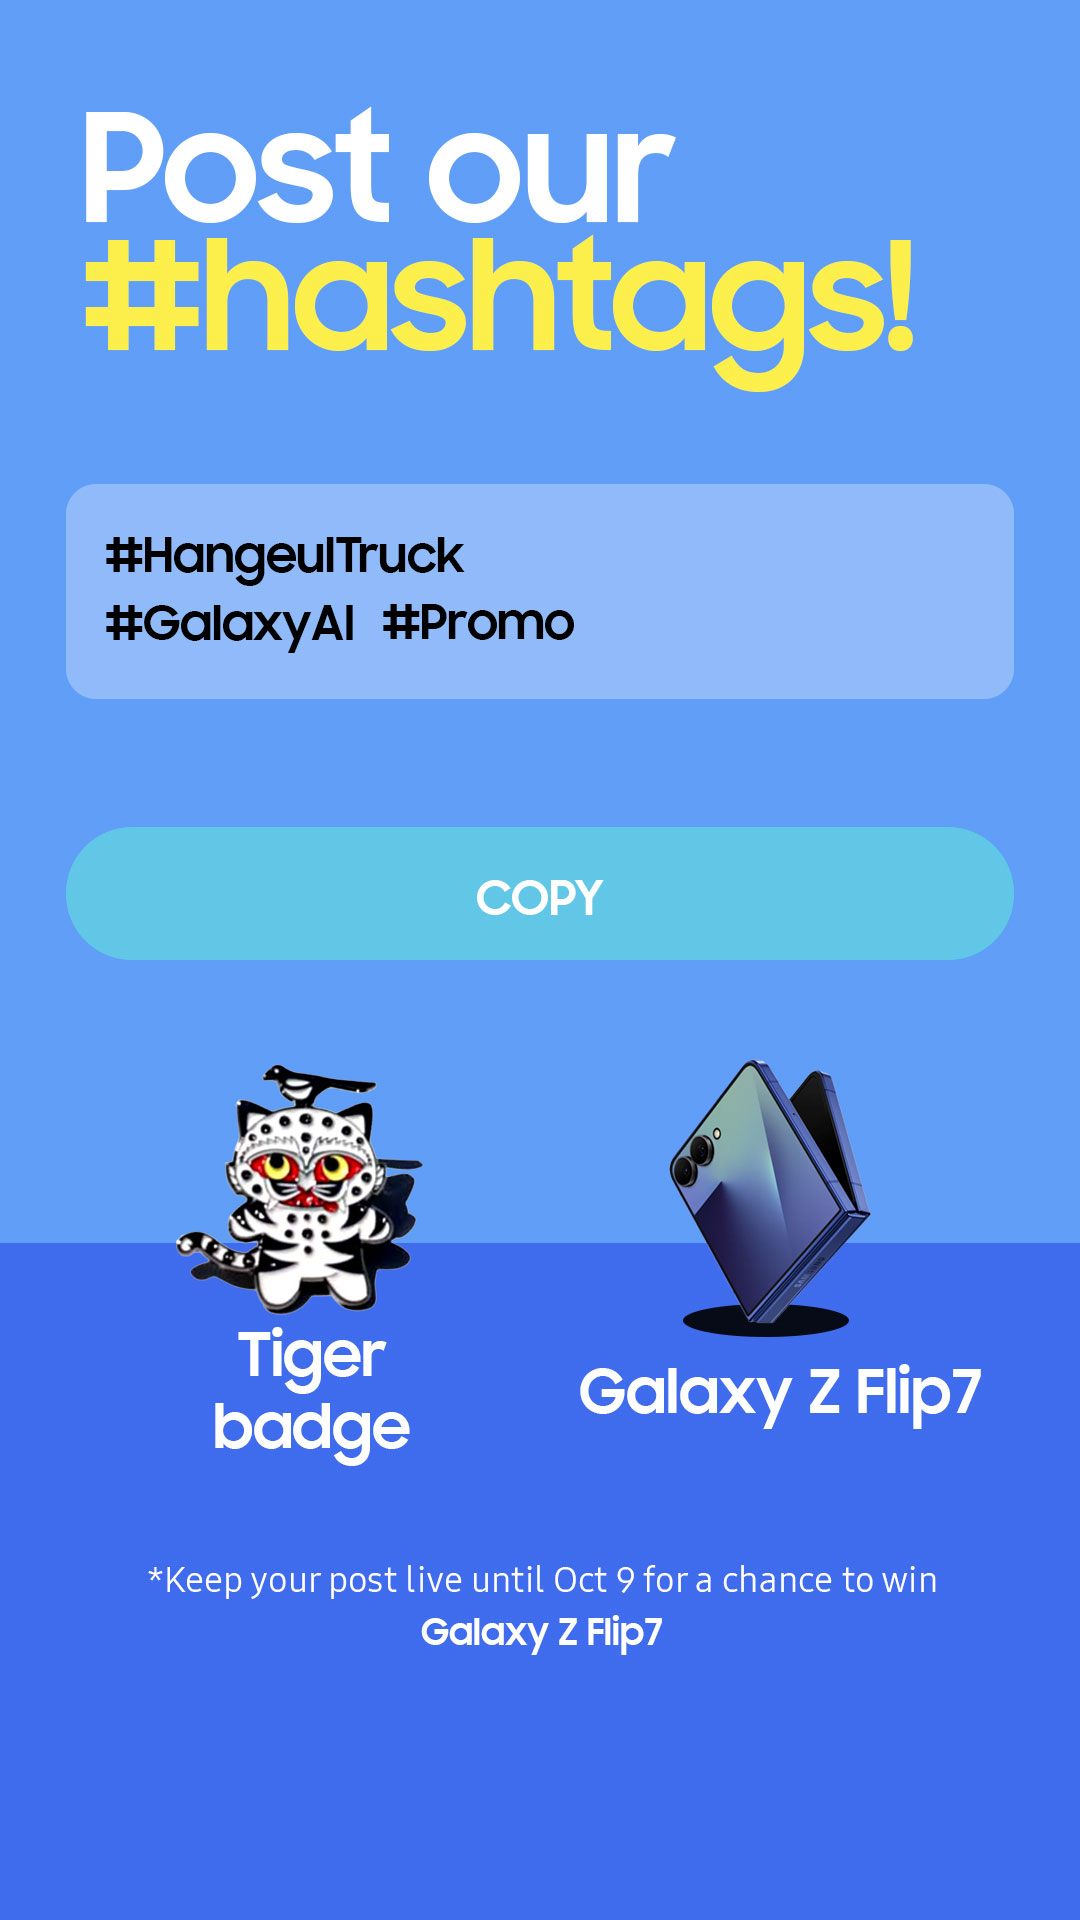
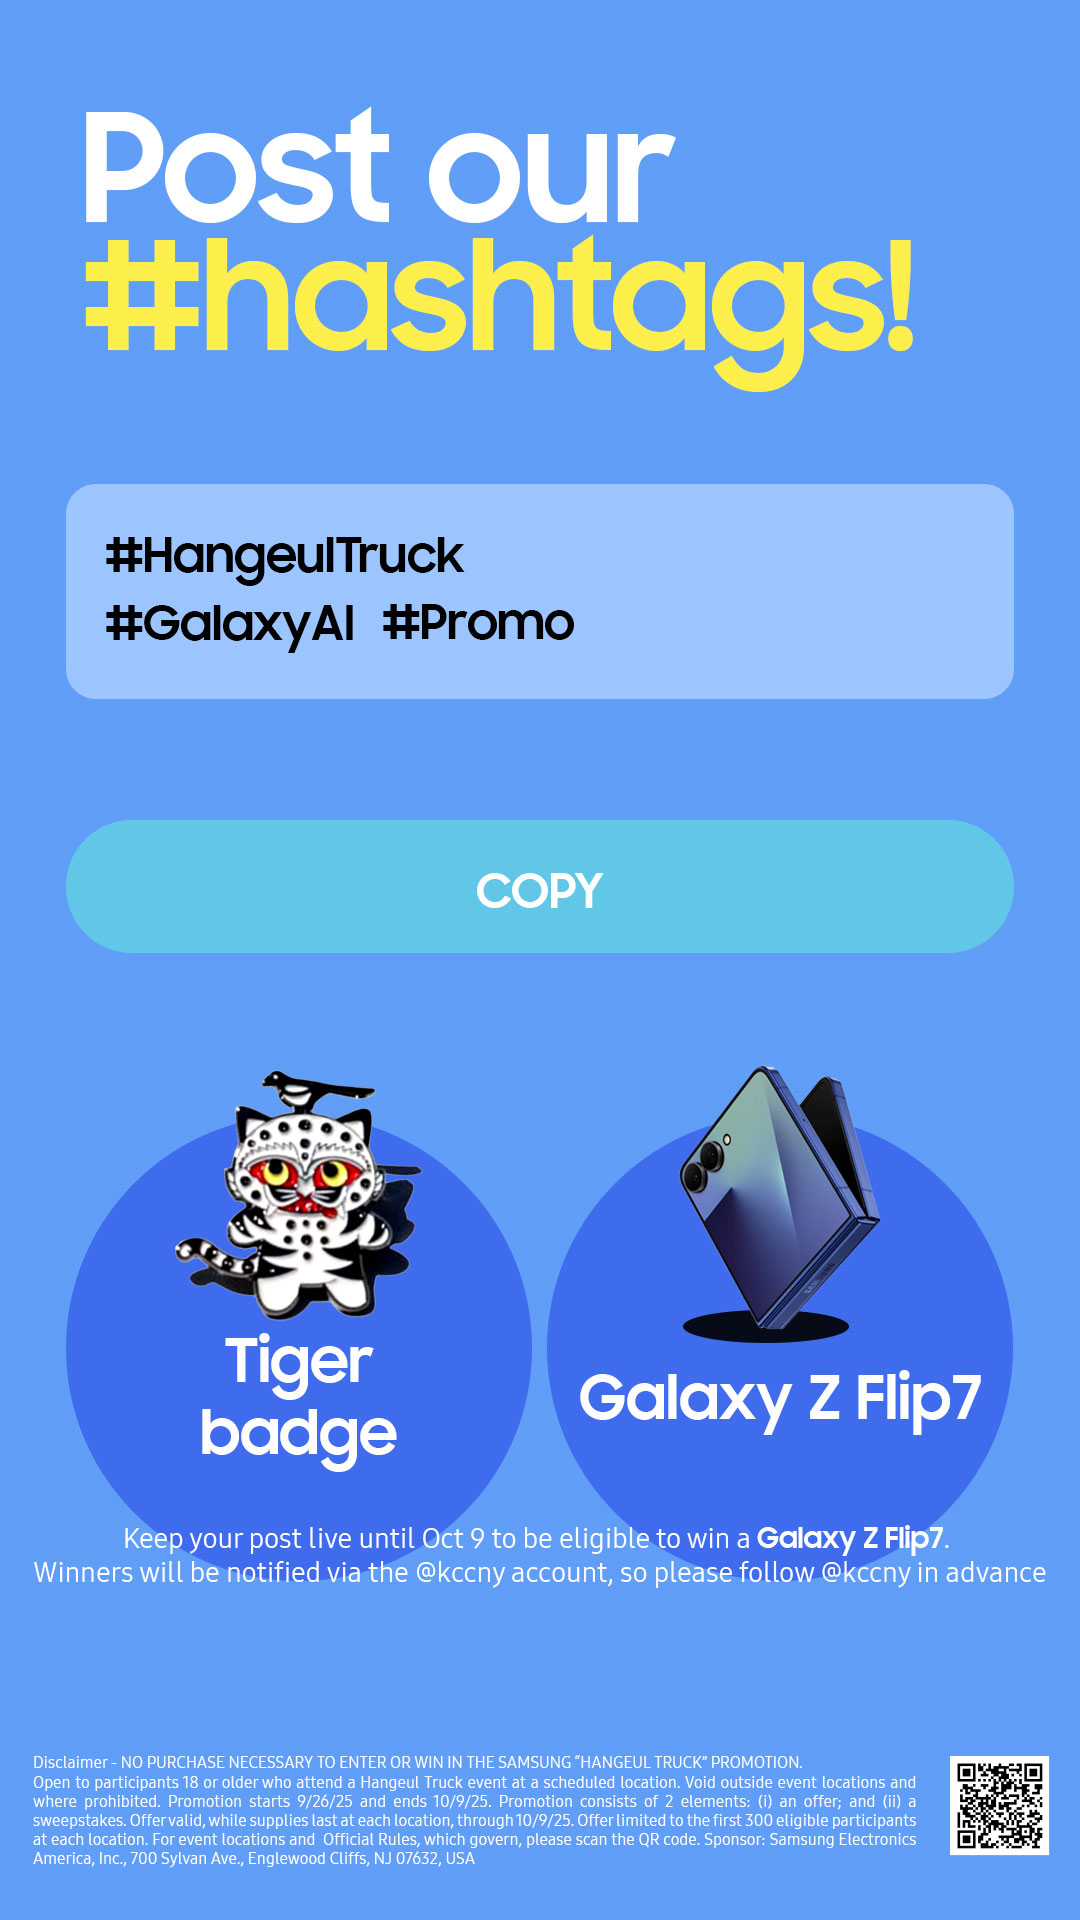
update

Changed region(s): [[0.0, 0.5312, 1.0, 1.0], [0.0611, 0.4062, 0.9167, 0.5]]

diff --git a/hashtag.html b/hashtag.html
@@ -10,7 +10,7 @@
     <style>
       :root {
         --sky-blue: #619ef7;
-        --dark-blue: #3f6ced;
+        --dark-blue: #619ef7;
         --split-point: 64.773%;
       }
 
@@ -19,7 +19,6 @@
         margin: 0;
         padding: 0;
         width: 100%;
-        height: 100%;
         overflow-x: clip;
       }
 
@@ -41,58 +40,22 @@
 
       body {
         display: flex;
-        align-items: center;
-        justify-content: center;
         min-height: 100vh;
-        box-sizing: border-box;
-        position: relative;
       }
 
       #image-wrapper {
+        margin: auto;
+        position: relative;
         width: 100%;
         max-width: 600px;
-        max-height: 100vh;
         flex-shrink: 0;
-        position: relative;
         z-index: 1;
-      }
-
-      #dynamic-background {
-        position: absolute;
-        top: 0;
-        left: 50%;
-        transform: translateX(-50%);
-        width: 100vw;
-        height: 100%;
-        z-index: 0;
-        pointer-events: none;
-      }
-
-      #dynamic-background::before,
-      #dynamic-background::after {
-        content: "";
-        position: absolute;
-        width: 100%;
-        left: 0;
-      }
-
-      #dynamic-background::before {
-        top: 0;
-        height: var(--split-point);
-        background-color: var(--sky-blue);
-      }
-
-      #dynamic-background::after {
-        top: var(--split-point);
-        bottom: 0;
-        background-color: var(--dark-blue);
       }
 
       #bg-image {
         display: block;
-        aspect-ratio: 1080 / 1920;
         width: 100%;
-        height: 100%;
+        aspect-ratio: 1080 / 1920;
         position: relative;
         z-index: 2;
       }
@@ -101,13 +64,12 @@
         position: absolute;
         cursor: pointer;
         z-index: 10;
-        /* 디버깅용 - 나중에 제거 가능 */
+        /* 디버깅용 배경색 (필요시 주석 해제) */
         /* background-color: rgba(255, 0, 0, 0.2); */
-        /* border: 1px solid red; */
       }
 
       #hashtag-copy-btn {
-        top: 42.5%;
+        top: 42.2%;
         left: 5%;
         width: 90%;
         height: 8%;
